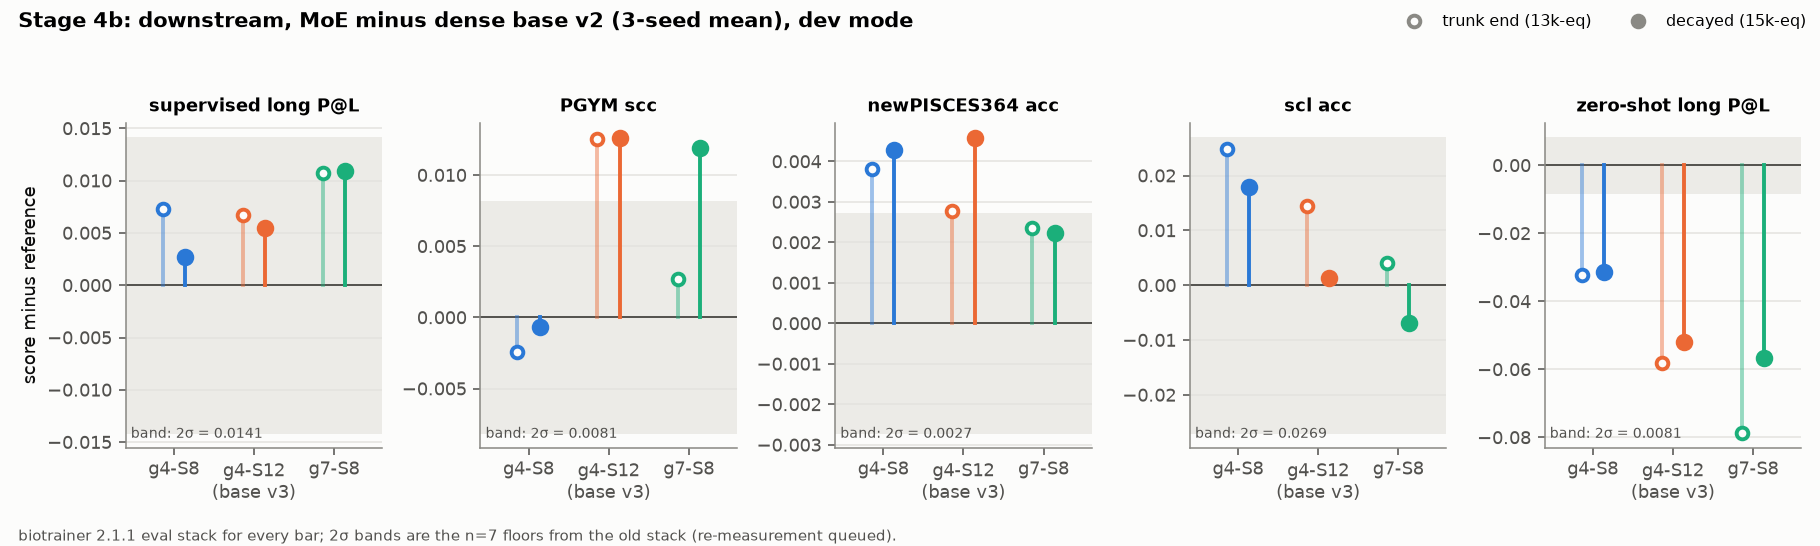
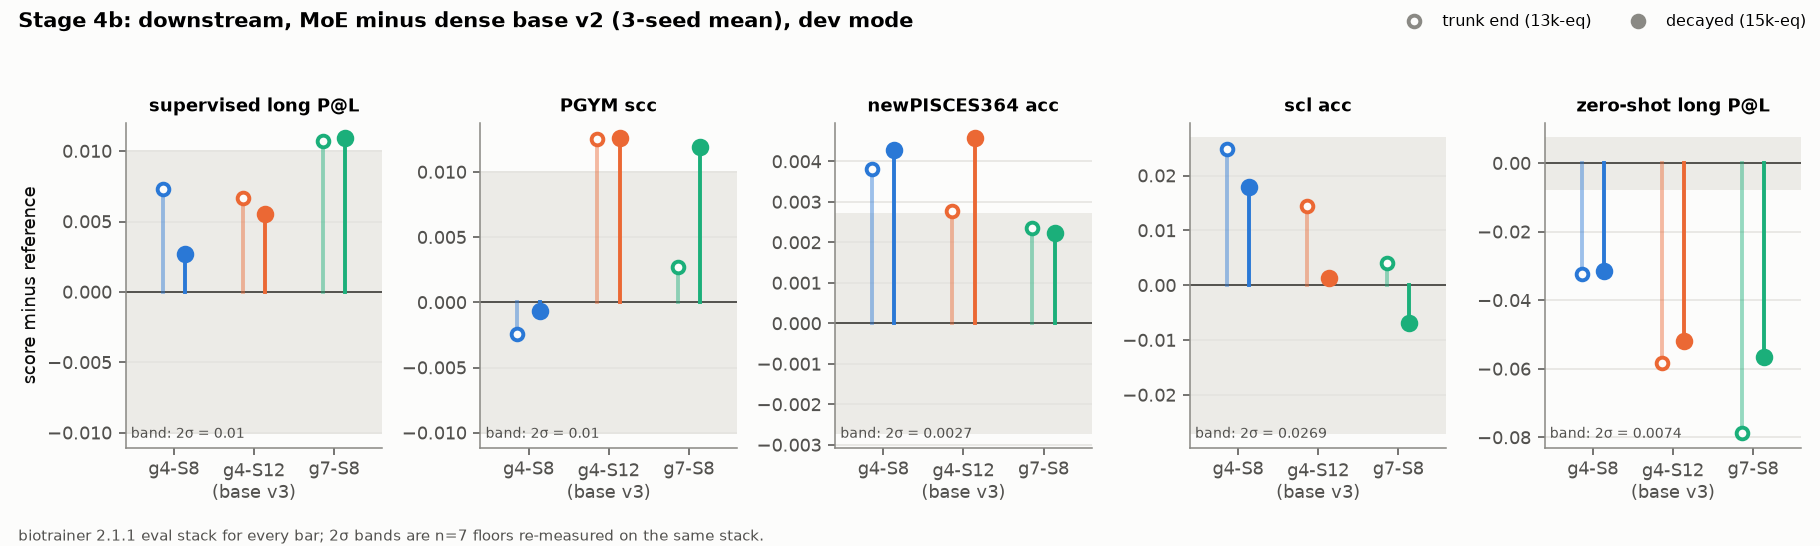
results: canon downstream at 1e-4, bt211 noise floor, canon B diverged; regenerated stage 4 figures
Claude-Session: https://claude.ai/code/session_0172YmuGy2bFLfiPCwQpBEnx

diff --git a/results.md b/results.md
@@ -1245,6 +1245,41 @@ failed on a path lookup: a `continue` resume saves into the original run dir
 `canon3c-clr1e-3-2552996`, which `sbatch_decay_chain.sh` does not search; the decay
 was regenerated with `make_decay.py` and resubmitted unchanged.)
 
+**Canon B at 1e-3 diverged (2026-10-29).** `canon3-b` (job 2558419) aborted at
+step 7239 on non-finite weights in `layers.2.mlp.Wo`, the first MoE layer. It is
+the same expert-weight NaN as `g7-S12`; see findings.md "g7-S12 weight NaN".
+Up to step 7000 it tracked base v3 within the band (-0.001 at 7000). Its decay
+2558420 was cancelled. There is no B result.
+
+**Re-measured noise floor on the bt211 eval stack (job 2561873).** These are the
+same 7 dense checkpoints at 13k as the original floor. 2 sigma: supervised long
+P@L 0.0100 (was 0.0141), PGYM 0.0100 (was 0.0081), newPISCES364 0.0027 and scl
+0.0269 (both unchanged), zero-shot long P@L 0.0074 (was 0.0081). All stage-4
+downstream bands now use these. Tables earlier in this file keep the old floors
+they were judged against.
+
+**Canon downstream at LR 1e-4 (job 2561953).** Decayed, each at its own budget,
+minus base v3 decayed; * marks values outside 2 sigma:
+
+| arm | supervised | PGYM | newPISCES364 | scl | zero-shot |
+|---|---|---|---|---|---|
+| A | -0.0021 | -0.0020 | -0.0033* | +0.0000 | **+0.0389*** |
+| C | +0.0012 | -0.0018 | -0.0037* | -0.0042 | +0.0065 |
+| AC | **-0.0170*** | -0.0047 | -0.0002 | -0.0104 | +0.0174* |
+| ABC | **-0.0124*** | -0.0079 | -0.0024 | +0.0125 | +0.0151* |
+| 2 sigma | 0.0100 | 0.0100 | 0.0027 | 0.0269 | 0.0074 |
+
+![stage 4c downstream](figures/stage4c-downstream.png)
+
+- **Zero-shot contact rises with canon A in every arm containing it.** A alone
+  gains +0.039 (5x the band); AC and ABC gain +0.015 to +0.017.
+- **Supervised contact goes the other way.** AC and ABC lose 0.012-0.017.
+- **newPISCES364 dips** just past its tight band for A and C.
+- **PGYM and scl** stay inside the band throughout.
+
+Base v3 is a single seed, so every difference carries about 1.4x the band's
+noise. These are the 1e-4 arms that lost on loss. The 1e-3 arms are not scored
+yet.
+
 Figures are regenerated by `sep07_abl/tools/plot_stage4.py <figures-dir>` from the logs and
-eval reports; runs still in flight are drawn as far as they have got. The canon downstream
-figure (`stage4c-downstream.png`) follows once eval job 2561953 lands.
+eval reports; runs still in flight are drawn as far as they have got.
